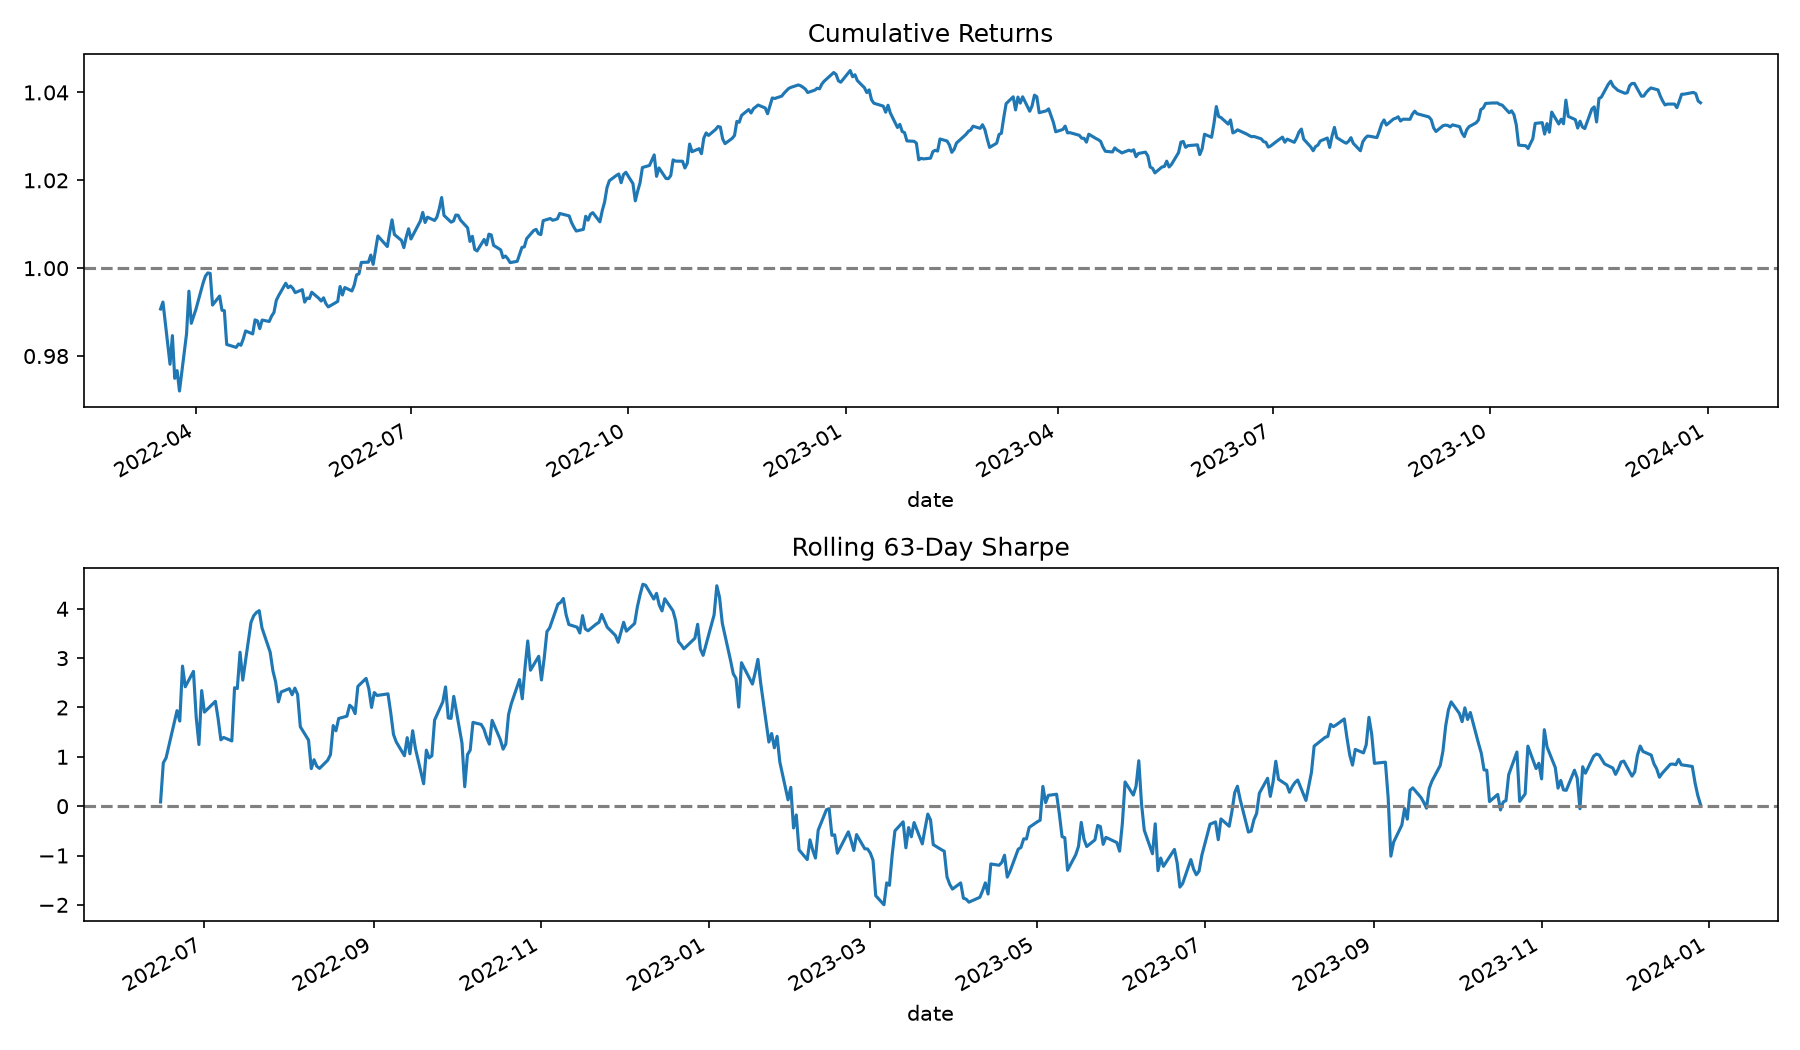
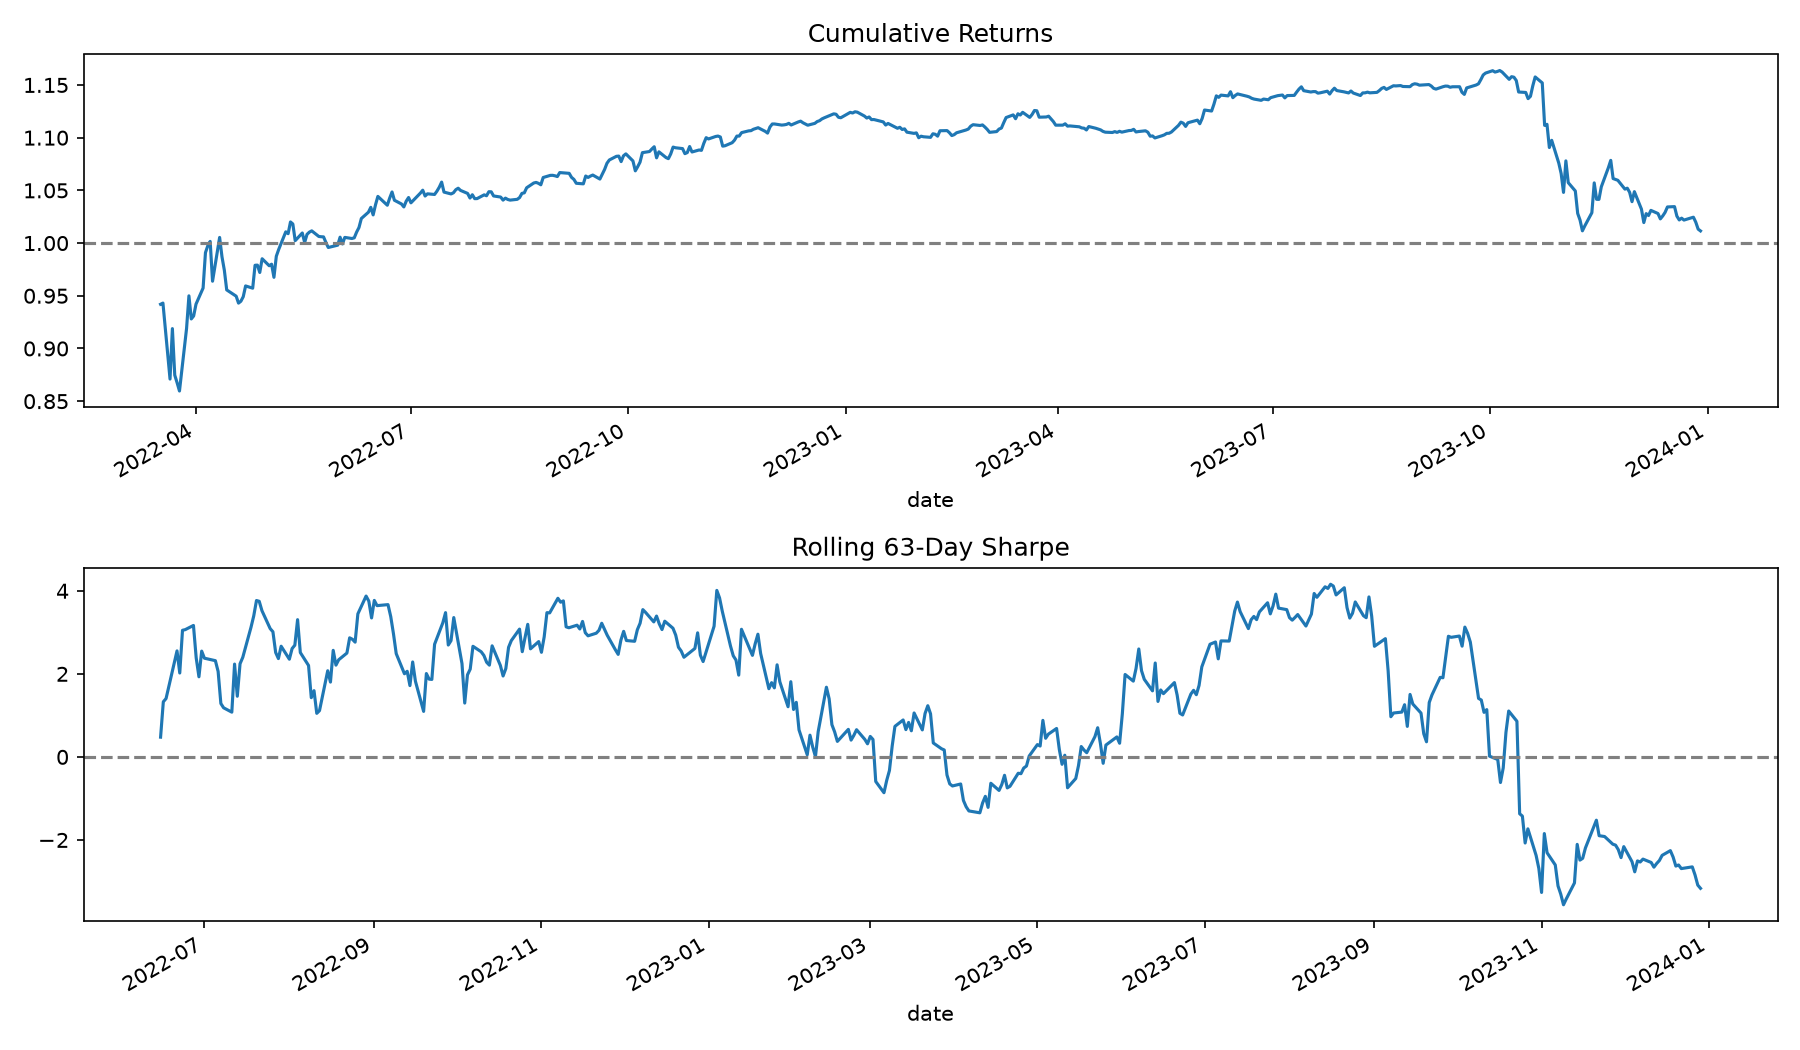
revert to better backtest

diff --git a/backtest.py b/backtest.py
@@ -154,19 +154,14 @@ def build_portfolio(predictions, daily_returns):
             valid_shorts = [x for x in shorts if x in daily_returns.columns]
 
             if valid_longs:
-                long_scores = sig.loc[valid_longs]
-                long_scores = long_scores - long_scores.min() + 1e-6
-
-                long_weights = (long_scores / long_scores.sum())
-                current_weights.loc[valid_longs] = (0.5 * long_weights)
+                ranks = sig.loc[valid_longs].rank()
+                weights = ranks / ranks.sum()
+                current_weights.loc[valid_longs] = 0.5 * weights
 
             if valid_shorts:
-                short_scores = sig.loc[valid_shorts]
-                short_scores = short_scores.max() - short_scores + 1e-6
-
-                short_weights = (short_scores / short_scores.sum())
-
-                current_weights.loc[valid_shorts] = (-0.5 * short_weights)
+                ranks = sig.loc[valid_shorts].rank(ascending=False)
+                weights = ranks / ranks.sum()
+                current_weights.loc[valid_shorts] = -0.5 * weights
 
         weights.loc[date] = current_weights
 
@@ -181,10 +176,10 @@ def build_portfolio(predictions, daily_returns):
 
     active_returns = net_returns[weights.abs().sum(axis=1) > 0]
 
-    TARGET_VOL = 0.15
-    realized_vol = ( active_returns.std() * np.sqrt(252))
-    scaling_factor = TARGET_VOL / realized_vol
-    active_returns = active_returns * scaling_factor
+    #TARGET_VOL = 0.15
+    #realized_vol = ( active_returns.std() * np.sqrt(252))
+    #scaling_factor = TARGET_VOL / realized_vol
+    #active_returns = active_returns * scaling_factor
 
     cumulative = (1 + active_returns).cumprod()
 

diff --git a/model.py b/model.py
@@ -66,7 +66,7 @@ def train_and_evaluate(factor_matrix: pd.DataFrame,
 
     for i in range(TRAIN_WINDOW, len(dates) - TEST_WINDOW, 21):
         train_dates = dates[i - TRAIN_WINDOW: i]
-        test_dates  = test_dates = dates[i:i+TEST_WINDOW] #dates[i + FORWARD_DAYS: i + FORWARD_DAYS + TEST_WINDOW]
+        test_dates = dates[i:i+TEST_WINDOW] #dates[i + FORWARD_DAYS: i + FORWARD_DAYS + TEST_WINDOW]
 
         if len(test_dates) == 0:
             continue
